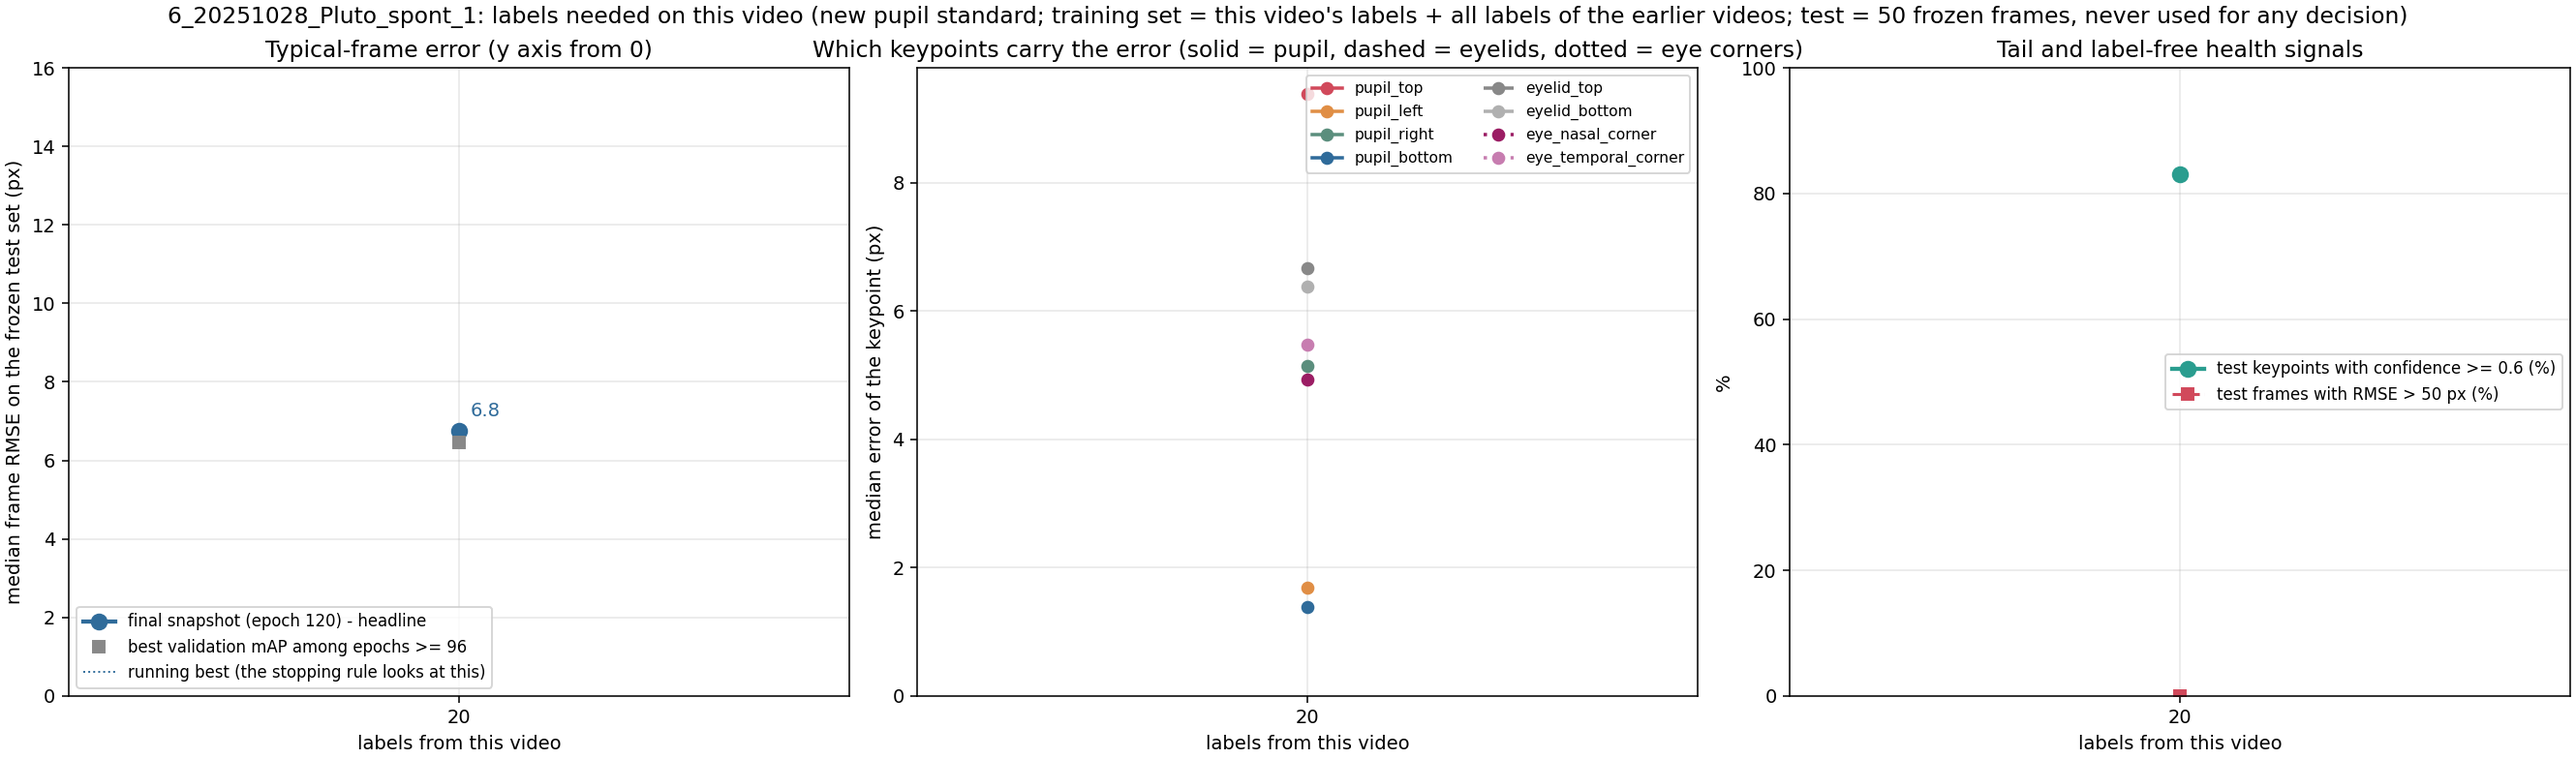
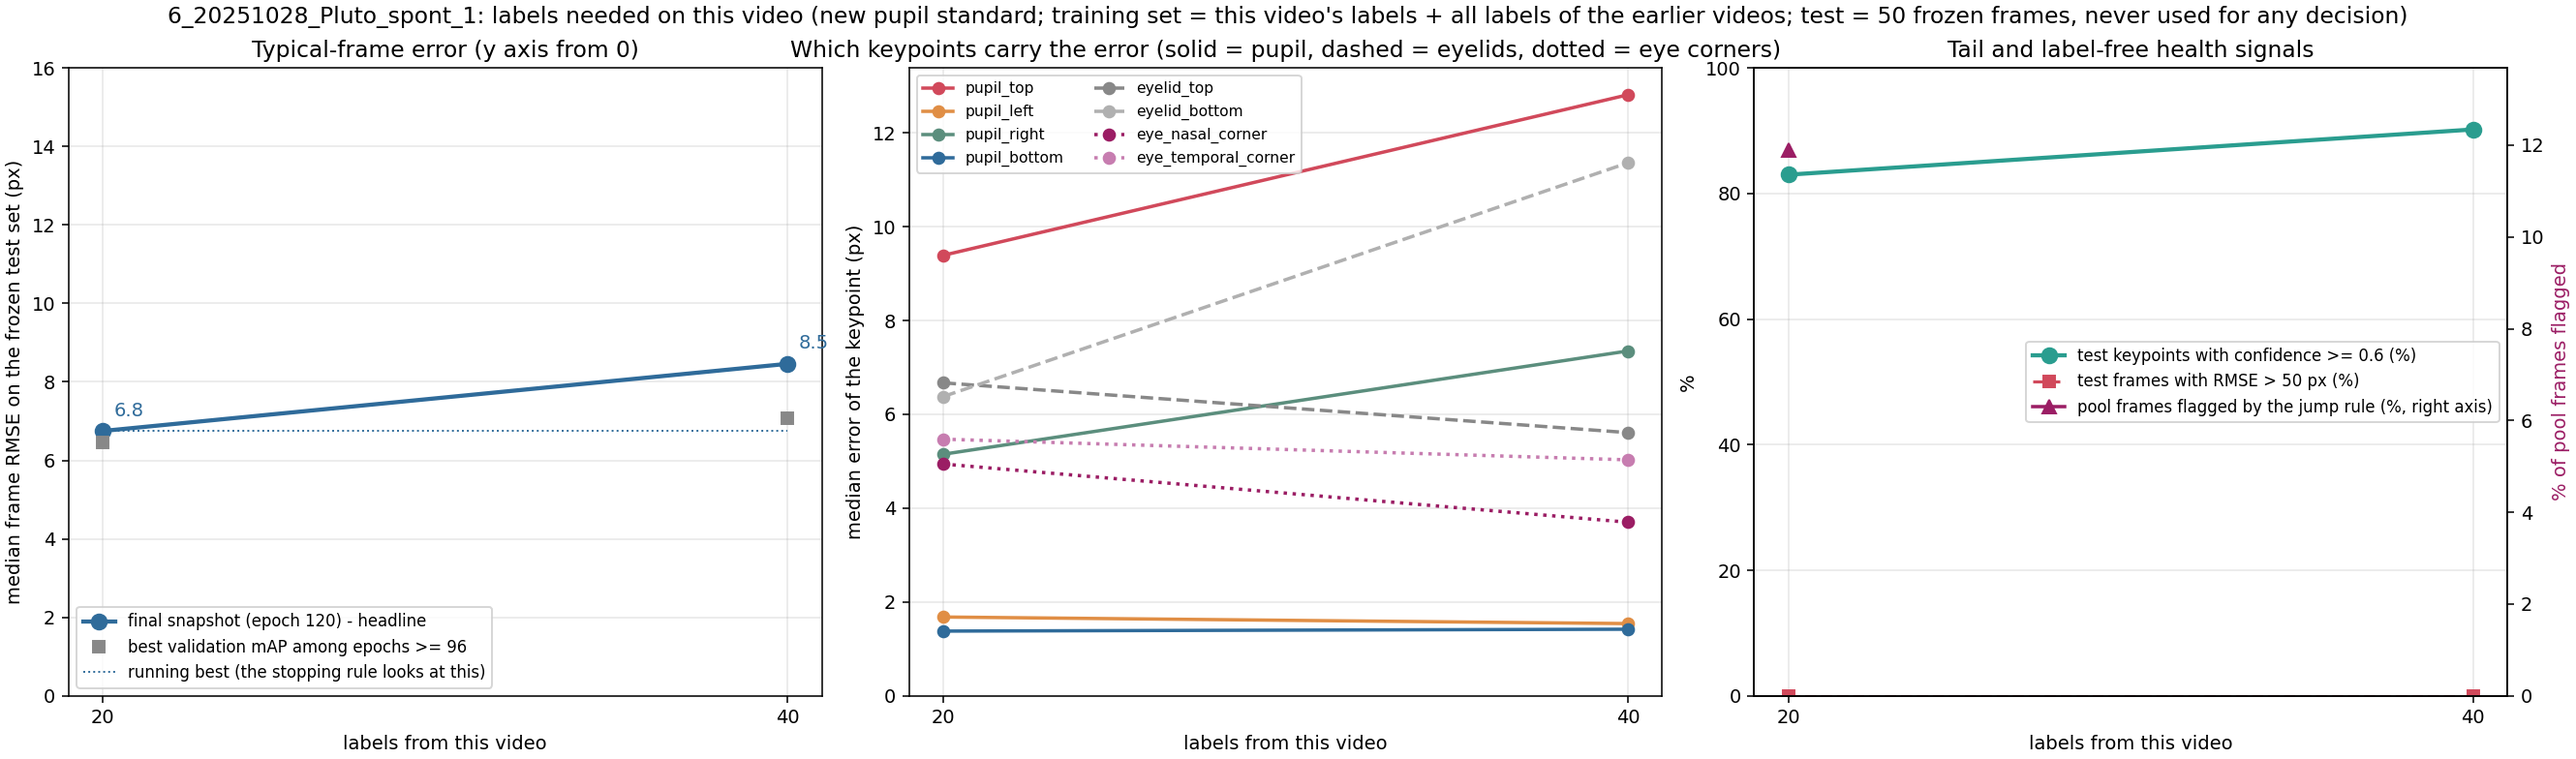
Video 6 v2 step 2: 40 labels = 8.46 px median (p90 11.8); running best stays 6.75 px

diff --git a/README.md b/README.md
@@ -8,7 +8,7 @@ how many human labels are needed, and how few frames must a person correct, befo
 Zhiheng Li (University of Minnesota), with Kaiwen Sheng (Stanford). Raw videos, frames, labels, model weights and
 per-frame predictions stay local; git carries code, documentation and audited aggregate results.
 
-## Status (last updated 2026-09-29 12:15 CDT)
+## Status (last updated 2026-09-29 13:40 CDT)
 
 | what | state |
 |---|---|
@@ -18,7 +18,7 @@ per-frame predictions stay local; git carries code, documentation and audited ag
 | Finished | **video 4 run 2** (Pluto, 2025-10-30, convention v2): plateau at **40 labels, 15.01 px** (0/20/40/60/80 = 32.11/24.64/15.01/16.82/17.54 px). Run 1 (v1): 140 labels, 14.74 px (archived, tag `v0.8.0-video4-convention1`). Open: the v2 labels mark a much smaller pupil (width 92 vs 215 px) |
 | Finished | **video 5** (Pluto, 2025-10-29, convention v2): plateau at **20 labels, 15.85 px** (0/20/40 = 11.90/15.85/16.58 px; the 0-label model is > 50 px off on 12% of frames, 20 labels remove all of them) |
 | Finished | **fewer-labels study** (videos 0-5, step 1 retrained with 5 or 10 of its 20 labels, training set otherwise as at that time): 5 labels were enough only on videos 3 and 5; on videos 0, 1, 2 and 4, 5 or 10 labels fall short of 20 (video 4: 10 labels worse than none). 20 labels is the smallest batch that worked on every video; table in `v2_new_pupil_top_video_scaling/results/README.md` |
-| In progress | **video 6** (Pluto, 2025-10-28, v2 line continued): test set relabeled under v2 and frozen; 0 labels (video-5 model 631) = 9.36 px, 20 labels = 6.75 px (p90 11.2); batch02 being labeled. Cross-video curves now also show the 5 / 10-label subset models (open markers) |
+| In progress | **video 6** (Pluto, 2025-10-28, v2 line continued): test set relabeled under v2 and frozen; 0 labels (video-5 model 631) = 9.36 px, 20 labels = 6.75 px (p90 11.2), 40 labels = 8.46 px (p90 11.8; no improvement, plateau rule decides after step 3); batch03 being selected. Cross-video curves now also show the 5 / 10-label subset models (open markers) |
 | v3 (paused) | `v3_pupil_vedio_scaling/`: videos linked, labelling guide v0.1 written; the video-0 re-check supports the labeler's outer-edge placement (fur / shadow over the pupil), so the guide needs a per-video rule before v3 labelling starts |
 | Blink / area analysis | per-video time series in `<video>/results/blink_area_analysis/`; across videos (`v2_new_pupil_top_video_scaling/results/blink_area_consistency.png`): 4-point area better on 7 of 8 test sets; lowest pupil confidence < ~0.2 separates all 16 human closed-eye frames (the production 0.6 cut flags ~half of open frames); area correlates with eye opening in every video |
 | Test-set only | videos 5-8 (2025-10-29 / 28 / 27 / 24): frozen test sets scored by every model so far; videos 9 (10-23) and 10 (10-22): test sets being labeled |
@@ -35,7 +35,7 @@ Labels needed per video (plateau = two consecutive 20-label steps that improve t
 | 3 | Pluto, 2025-10-31 | 260 | 4.43 / 3.40 / 3.87 / 3.63 px | 20 labels, 3.4 px |
 | 4 | Pluto, 2025-10-30 (poor quality) | 320 | run 2 (v2): 32.11 / 24.64 / 15.01 / 16.82 / 17.54 px | 40 labels, 15.0 px (run 1 v1: 140 labels) |
 | 5 | Pluto, 2025-10-29 | 360 | 11.90 / 15.85 / 16.58 px (v2) | 20 labels, 15.9 px (0 labels: 12% of frames > 50 px) |
-| 6 | Pluto, 2025-10-28 | 380 | 9.36 / 6.75 px (v2, in progress) | – |
+| 6 | Pluto, 2025-10-28 | 380 | 9.36 / 6.75 / 8.46 px (v2, in progress) | – |
 
 What the numbers say:
 

diff --git a/v2_new_pupil_top_video_scaling/results/README.md b/v2_new_pupil_top_video_scaling/results/README.md
@@ -18,7 +18,7 @@ snapshot with the best validation mAP after the first learning-rate drop (epochs
 | 3 `3_20251031_Pluto_spont_2` | mouse B, 19.9 min (10-31 session spont_2) | 260 (videos 0 + 1 + 60 of video 2) | 4.43 / 3.40 / 3.87 / 3.63 / – / – | **20 labels** (rule fired at 60) | 3.40 px |
 | 4 `4_20251030_Pluto_spont_1` | mouse B, 19.9 min, 2025-10-30 (poor image quality) | 320 (videos 0-3) | run 2 (convention v2): 32.11 / 24.64 / 15.01 / 16.82 / 17.54 | **40 labels** (run 2; run 1 under v1: 140 labels) | 15.01 px |
 | 5 `5_20251029_Pluto_spont_1` | mouse B, 19.9 min, 2025-10-29 | 360 (videos 0-3 + 40 of video 4 run 2) | convention v2: 11.90 / 15.85 / 16.58 / – / – / – | **20 labels** (user decision: the median rule fires at 0, but the 0-label model is > 50 px off on 12% of test frames; 20 labels remove all of them) | 15.85 px |
-| 6 `6_20251028_Pluto_spont_1` | mouse B, 19.9 min, 2025-10-28 | 380 (videos 0-3 + 40 of video 4 + 20 of video 5) | convention v2: 9.36 / 6.75 / – | in progress | – |
+| 6 `6_20251028_Pluto_spont_1` | mouse B, 19.9 min, 2025-10-28 | 380 (videos 0-3 + 40 of video 4 + 20 of video 5) | convention v2: 9.36 / 6.75 / 8.46 | in progress (step 2 did not improve on 6.75; rule decides after step 3) | – |
 
 Notes
 - With 50 test frames the median moves by about 1 px between neighbouring steps from sampling alone, so the

diff --git a/v2_new_pupil_top_video_scaling/6_20251028_Pluto_spont_1/results/README.md b/v2_new_pupil_top_video_scaling/6_20251028_Pluto_spont_1/results/README.md
@@ -9,5 +9,6 @@ video's labels; shuffles 711, 712, ...
 | labels of this video | median | p90 | frames > 50 px | keypoints conf >= 0.6 | pool frames flagged by the jump rule |
 |---|---|---|---|---|---|
 | 20 (shuffle 711) | 6.75 px | 11.2 | 0% | 83% | 6801 of 57158 (11.9%) |
+| 40 (shuffle 712) | 8.46 px | 11.8 | 0% | 90% | pending |
 
 Back-test of model 711 on the other frozen test sets: videos 1-5 = 12.01 / 6.78 / 3.21 / 14.80 / 13.65 px, video 7 = 5.36 px, video 8 = 20.76 px (`../results/cross_video_matrix.csv`).
